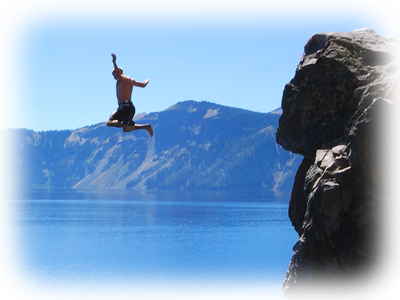
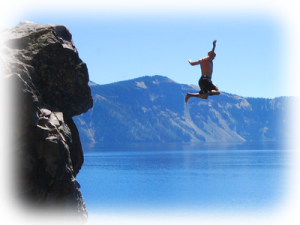
Made the get_involved pictures slightly smaller.
git-svn-id: http://argouml.tigris.org/svn/argouml/trunk@15834 a161b567-7d1e-0410-9ef9-912c70fedb3f

diff --git a/www/get_involved.html b/www/get_involved.html
@@ -21,7 +21,7 @@ Get Involved...
 
 <tr>
 <td width="50%" valign="top">
-<img src="images/get_invovled_toe-dip.png" width="400" height="300" />
+<img src="images/get_involved_toe-dip.png" width="300" height="225" />
 <div class="h2">
 <h2>Help us a little...</h2>
 
@@ -36,7 +36,7 @@ Get Involved...
 </div>
 </td>
 <td width="50%" valign="top">
-<img src="images/get_involved_dive.png" width="400" height="300" />
+<img src="images/get_involved_dive.png" width="300" height="225" />
 <div class="h2">
 <h2>Help us a lot...</h2>
 <ul>
